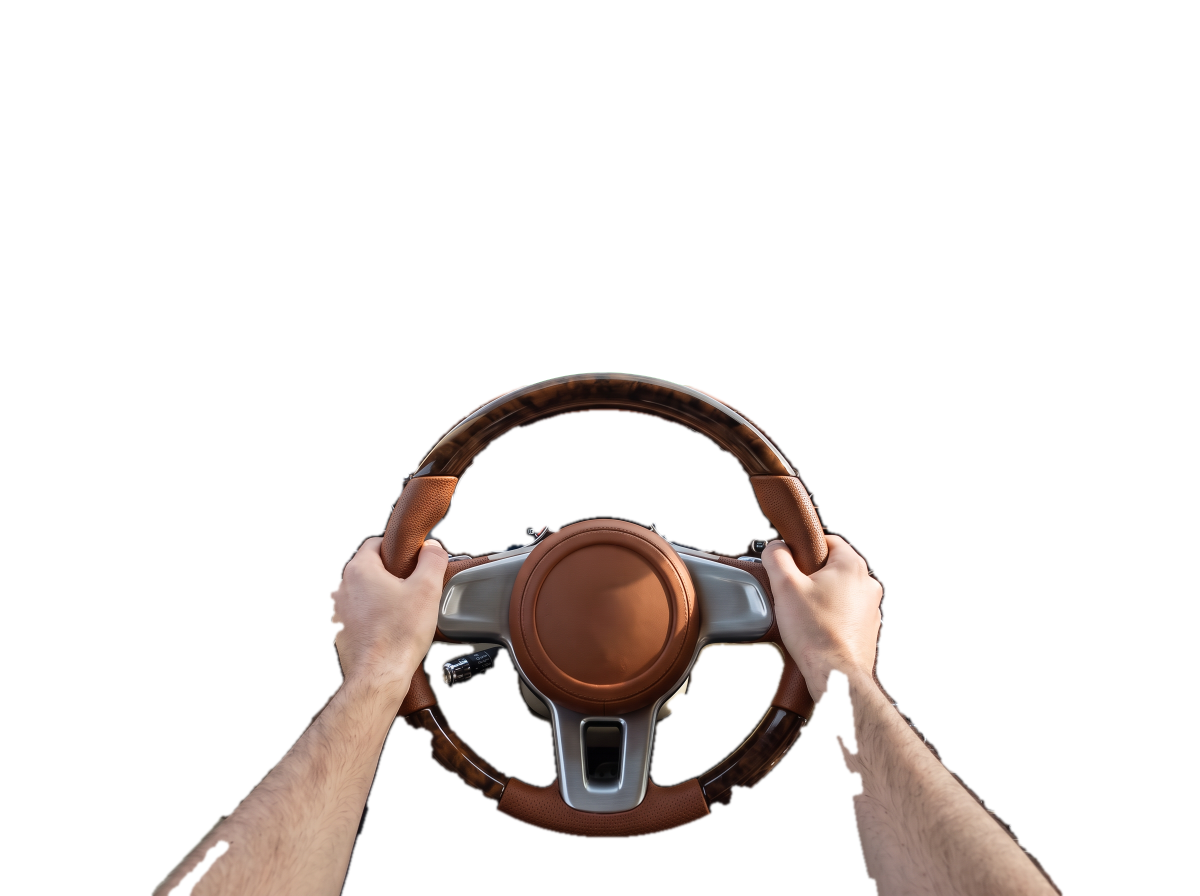
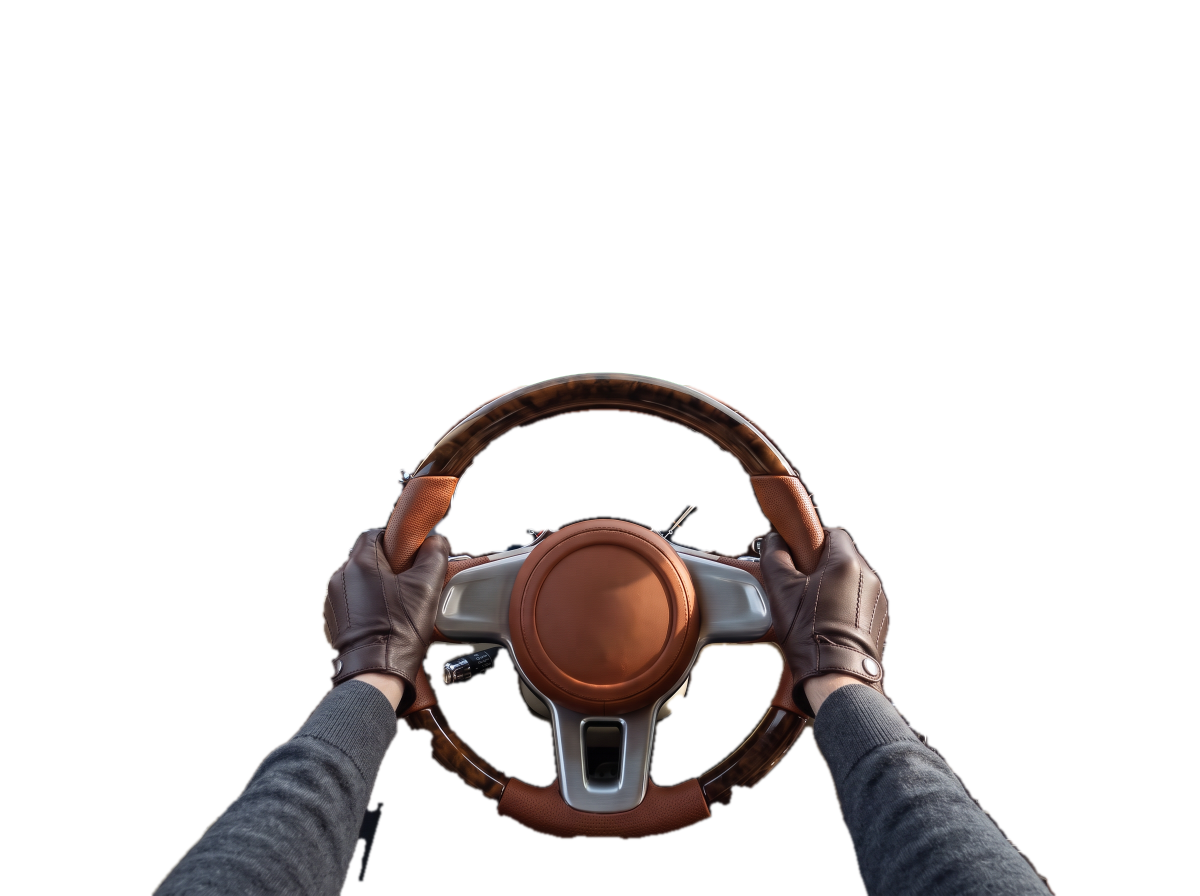
Gloved hands on the grand tourer (default) and a grand-tourer-no-hands car; tour rebuilt as v8, regression clean

diff --git a/cars/README.md b/cars/README.md
@@ -6,7 +6,8 @@ VibeTour can't play video packs yet, so nothing in the app reads this folder. To
 
 | Car | Look |
 | --- | --- |
-| [`grand-tourer`](grand-tourer/car.json) | Cognac and ivory nappa leather with contrast stitching, polished walnut burl, knurled metal, a wood-and-leather wheel, a hooded twin-dial cluster and a tall screen in the centre of the dash for the radio. A slim rear-view mirror hangs from the top edge of the frame, so the view is mostly view. The default car. |
+| [`grand-tourer`](grand-tourer/car.json) | Cognac and ivory nappa leather with contrast stitching, polished walnut burl, knurled metal, a wood-and-leather wheel, a hooded twin-dial cluster and a tall screen in the centre of the dash for the radio. A slim rear-view mirror hangs from the top edge of the frame, so the view is mostly view. The default car. Since 27 October the driver wears dark leather driving gloves and charcoal sleeves, so no skin shows. |
+| [`grand-tourer-no-hands`](grand-tourer-no-hands/car.json) | The same car with nobody at the wheel: the hands and forearms are edited out, the rim is whole. Pick it with `CAR=cars/grand-tourer-no-hands`. |
 | [`touring-sedan`](touring-sedan/car.json) | Tan saddle leather, open-pore walnut, brushed aluminium and a backlit three-dial cluster. The first car, from the October 2026 bake-off; its mirror console covers a large part of the view. |
 
 ## What a car folder holds
